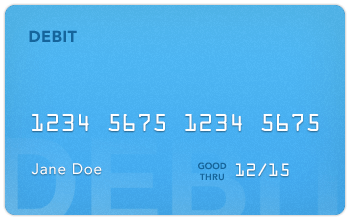
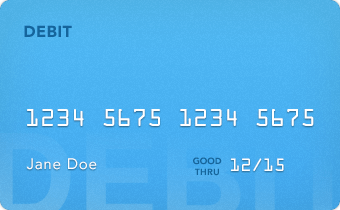
fixed images && reduced rotations

diff --git a/src/app/Frame.js b/src/app/Frame.js
@@ -6,9 +6,10 @@ import {Card} from './Card';
 import {TopText, TagLine, GetYours, PreOrder, Coin} from './TextViews';
 import {Timeline} from '../shared/Timeline';
 
-const Easing         = transitions.Easing;
 const GestureHandler = components.GestureHandler;
-const Camera         = components.Camera;
+const Easing         = transitions.Easing;
+const LINEAR         = Easing.getCurve('linear');
+const OUTBACK        = Easing.getCurve('outBack');
 
 export class Frame extends View {
     pre() {
@@ -19,9 +20,6 @@ export class Frame extends View {
         this.size.setAbsolute(320, 568);
         this.mountPoint.set(.5, .5);
         this.align.set(.5, .5);
-
-        this.camera = new Camera(this.dispatch);
-        this.camera.set(Camera.PINHOLE_PROJECTION, 0, 0, 0);
     }
 
     render() {
@@ -209,7 +207,7 @@ export class Frame extends View {
         });
     }
 
-    addPostTimelineEvents() {
+    addCoinSpringEvent() {
         const _this = this;
         const coinCard = _this.cards[_this.cards.length - 1];
         const viewPortCenter = {
@@ -268,22 +266,20 @@ export class Frame extends View {
     }
 
     initTimeline() {
-        const LINEAR = Easing.getCurve('linear');
         const _this = this;
         this.currentTime = 0; //Used in timeline scrubbing
 
-        this.time = {
-            start: 0,
-            step1: 1500, // Card scale apex
-            step2: 2500, // Card scale basin
-            step3: 3500, // Stage one done: Coin card has scaled back to a resting point
-            step4: 4500, // Coin card scale and flip starting
-            step5: 5500, // Coin card scale and flip apex
-            step6: 5750, // Coin card scale and flip almost done
-            step7: 6000, // End state text starts moving in
-            step8: 6500, // Stage two done: Tag line and coin card are moving up and out
-            end: 7000 //
-        };
+        this.time = {};
+        this.time.start = 0;
+        this.time.step1 = this.time.start + 1500; // Card scale apex
+        this.time.step2 = this.time.step1 + 500;  // Card scale basin
+        this.time.step3 = this.time.step2 + 500;  // Stage one done: Coin card has scaled back to a resting point
+        this.time.step4 = this.time.step3 + 1000; // Coin card scale and flip starting
+        this.time.step5 = this.time.step4 + 1000; // Coin card scale and flip apex
+        this.time.step6 = this.time.step5 + 250;  // Coin card scale and flip almost done
+        this.time.step7 = this.time.step6 + 250;  // End state text starts moving in
+        this.time.step8 = this.time.step7 + 500;  // Stage two done: Tag line and coin card are moving up and out
+        this.time.end   = this.time.step8 + 500;  // Finis
 
         /*--------------------- BLUE SCREEN ---------------------*/
         this.timeline.registerComponent({
@@ -368,12 +364,12 @@ export class Frame extends View {
                 direction: 1,
                 fn: function() {
                     if(i === 0) {
-                        coin.rotation.set(1080 * Math.PI / 180, 720 * Math.PI / 180, 0, {
+                        coin.rotation.set(540 * Math.PI / 180, 720 * Math.PI / 180, 0, {
                             curve: 'easeOut',
                             duration: 3000
                         });
                     } else if(i === 1) {
-                        coin.rotation.set(-1440 * Math.PI / 180, -1260 * Math.PI / 180, 0, {
+                        coin.rotation.set(-1080 * Math.PI / 180, -1260 * Math.PI / 180, 0, {
                             curve: 'easeOut',
                             duration: 3000
                         });
@@ -382,7 +378,7 @@ export class Frame extends View {
             });
         });
 
-        /*--------------------- COIN ---------------------*/
+        /*--------------------- COIN TEXT ---------------------*/
         this.timeline.registerComponent({
             component: this.coin.position,
             path: [
@@ -445,7 +441,7 @@ export class Frame extends View {
             time: _this.time.end,
             direction: 1,
             fn: function() {
-                _this.addPostTimelineEvents();
+                _this.addCoinSpringEvent();
             }
         });
     }
@@ -542,7 +538,7 @@ export class Frame extends View {
                     [this.time.start, [.5, .5, .5]],
                     [(this.time.step1 / 2), [1, 1, 1]],
                     [this.time.step1, [.5, .5, .5]],
-                    [this.time.step2, [.2, .2, .2]],
+                    [this.time.step2, [.3, .3, .3]],
                     [this.time.step3, [.5, .5, .5]],
                     [this.time.step4, [.62, .62, .62]],
                     [this.time.step5, [.75, .75, .75]]
@@ -550,7 +546,7 @@ export class Frame extends View {
                 timeSegments.cardRotation = [
                     [0, currentRotation],
                     [this.time.step1, [(-360 * Math.PI / 180), 0, (90 * Math.PI / 180)]],
-                    [this.time.step2, [(-1080 * Math.PI / 180), 0, (90 * Math.PI / 180)]],
+                    [this.time.step2, [(-540 * Math.PI / 180), 0, (90 * Math.PI / 180)]],
                     [this.time.step3, [(-360 * Math.PI / 180), 0, (90 * Math.PI / 180)]],
                     [this.time.step4, [(-270 * Math.PI / 180), 0, (90 * Math.PI / 180)]],
                     [this.time.step5, [(0 * Math.PI / 180), 0, (90 * Math.PI / 180)]],
@@ -565,7 +561,7 @@ export class Frame extends View {
                 timeSegments.cardPosition = [
                     [this.time.start, currentPosition],
                     [(this.time.step1 / 2), [0, 250]],
-                    [this.time.step1, [0, 75]],
+                    [this.time.step1, [0, 75], OUTBACK],
                     [this.time.step3, [0, 75]],
                     [this.time.step4, [0, 300]],
                     [this.time.step5, [0, 200]],
@@ -597,13 +593,5 @@ export class Frame extends View {
         }
 
         this.timeline.set(this.currentTime, { duration });
-    }
-
-    finishTimeline() {
-
-    }
-
-    restartTimeline() {
-
     }
 }

diff --git a/src/app/index.js b/src/app/index.js
@@ -3,11 +3,16 @@ import {View} from '../shared/View';
 import Utils from '../utils/Utilities'
 import {Frame} from './Frame';
 
+const Camera = components.Camera;
+
 class App extends View {
     setProperties() {
         this.mountPoint.set(0, 0);
         this.align.set(0, 0);
         this.size.setProportional(1, 1);
+
+        this.camera = new Camera(this.dispatch);
+        this.camera.set(Camera.PINHOLE_PROJECTION, 10000, 0, 0);
     }
 
     render() {
